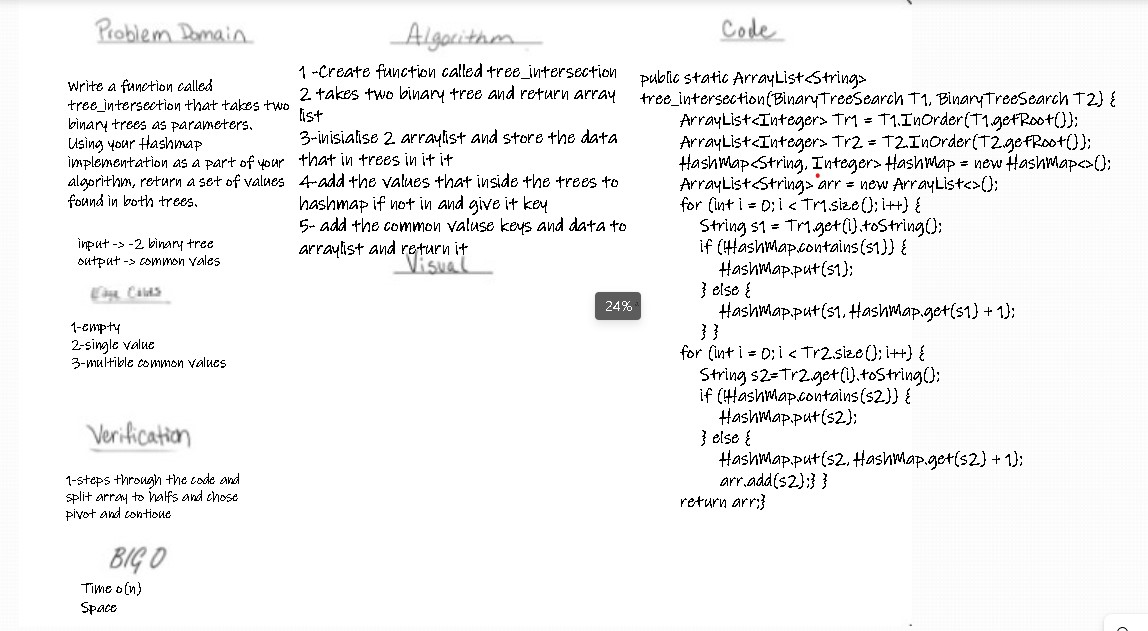
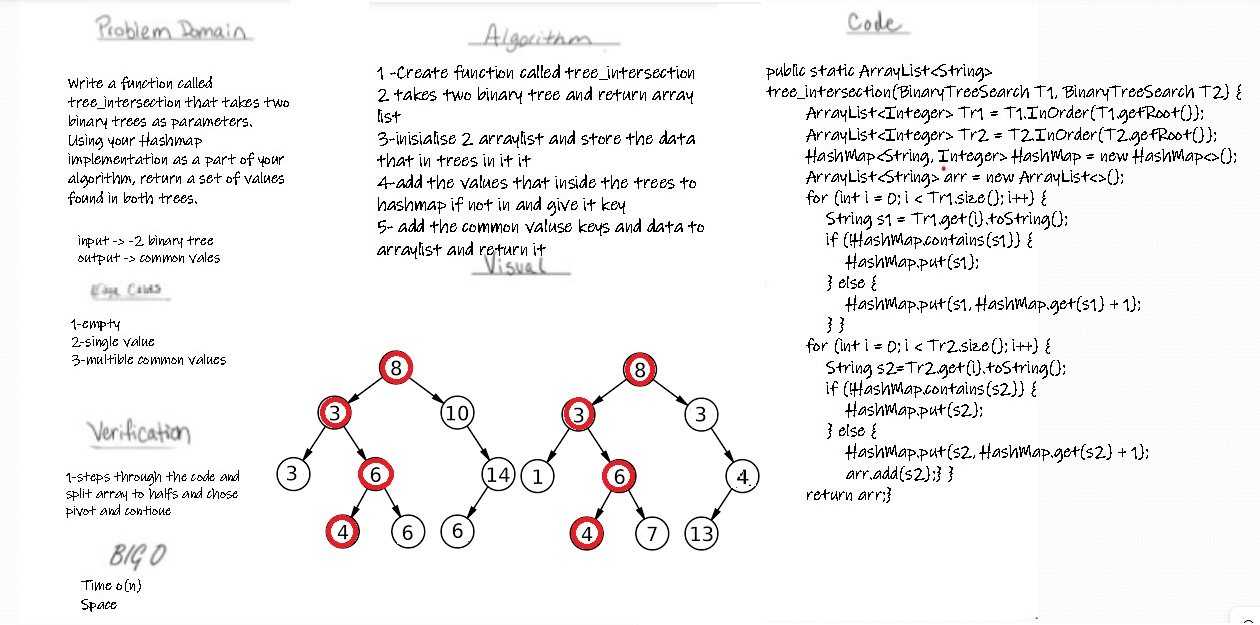
TreeIntersection

diff --git a/HashTable/src/com/example/structure/HashTable.java b/HashTable/src/com/example/structure/HashTable.java
@@ -178,4 +178,39 @@ public class HashTable<K, V> {
 
         return "NULL";
     }
+
+
+
+
+    public static ArrayList<String> tree_intersection(BinaryTreeSearch T1, BinaryTreeSearch T2) {
+
+        ArrayList<Integer> Tr1 = T1.InOrder(T1.getRoot());
+        ArrayList<Integer> Tr2 = T2.InOrder(T2.getRoot());
+
+        HashTable<String, Integer> HashTable = new HashTable<>();
+        ArrayList<String> arr = new ArrayList<>();
+
+        for (int i = 0; i < Tr1.size(); i++) {
+            String s1 = Tr1.get(i).toString();
+
+            if (!HashTable.contains(s1)) {
+                HashTable.put(s1, 1);
+            } else {
+
+                HashTable.put(s1, HashTable.get(s1) + 1);
+            }
+        }
+        for (int i = 0; i < Tr2.size(); i++) {
+            String s2=Tr2.get(i).toString();
+            if (!HashTable.contains(s2)) {
+                HashTable.put(s2, 1);
+            } else {
+                HashTable.put(s2, HashTable.get(s2) + 1);
+                arr.add(s2);
+            }
+        }
+        return arr;
+
+    }
+
 }

diff --git a/HashTable/src/test/java/linked/AppTest.java b/HashTable/src/test/java/linked/AppTest.java
@@ -56,6 +56,37 @@ public class AppTest {
     }
 
 
+    @Test
+    public void tree_intersection_test() {
+
+        HashTable<Integer, Integer> trees = new HashTable<Integer, Integer>();
+
+        BinaryTreeSearch tree1 = new BinaryTreeSearch();
+        BinaryTreeSearch tree2 = new BinaryTreeSearch();
+
+        tree1.setRoot(new Node(1));
+        tree1.getRoot().setLeft(new Node(2));
+        tree1.getRoot().setRight(new Node(3));
+        tree1.getRoot().getRight().setLeft(new Node(4));
+        tree1.getRoot().getRight().setRight(new Node(5));
+
+
+        tree2.setRoot(new Node(1));
+        tree2.getRoot().setLeft(new Node(3));
+        tree2.getRoot().setRight(new Node(5));
+        tree2.getRoot().getRight().setLeft(new Node(7));
+        tree2.getRoot().getRight().setRight(new Node(9));
+        ArrayList<String> arr = new ArrayList<>();
+        arr.add("3");
+        arr.add("1");
+        arr.add("5");
+
+        assertEquals(HashTable.tree_intersection(tree1, tree2),arr);
+
+
+    }
+
+
 
 
 }

diff --git a/HashTable/README32.md b/HashTable/README32.md
@@ -10,9 +10,9 @@ The time complexity is O(n).
 The space complexity is O(n)
 ## API
 
-1 -Create function called repeated word
-2 - split the text into words
-3-delete any comas (,)
-4-put every world in Hashtable and put the key the count of how many the world repeated
-5- return find the first word to occur more than once in a string
-6-if there is not any spesial repeted world return null
+- 1 -Create function called repeated word
+- 2 - split the text into words
+- 3-delete any comas (,)
+- 4-put every world in Hashtable and put the key the count of how many the world repeated
+- 5- return find the first word to occur more than once in a string
+- 6-if there is not any spesial repeted world return null
